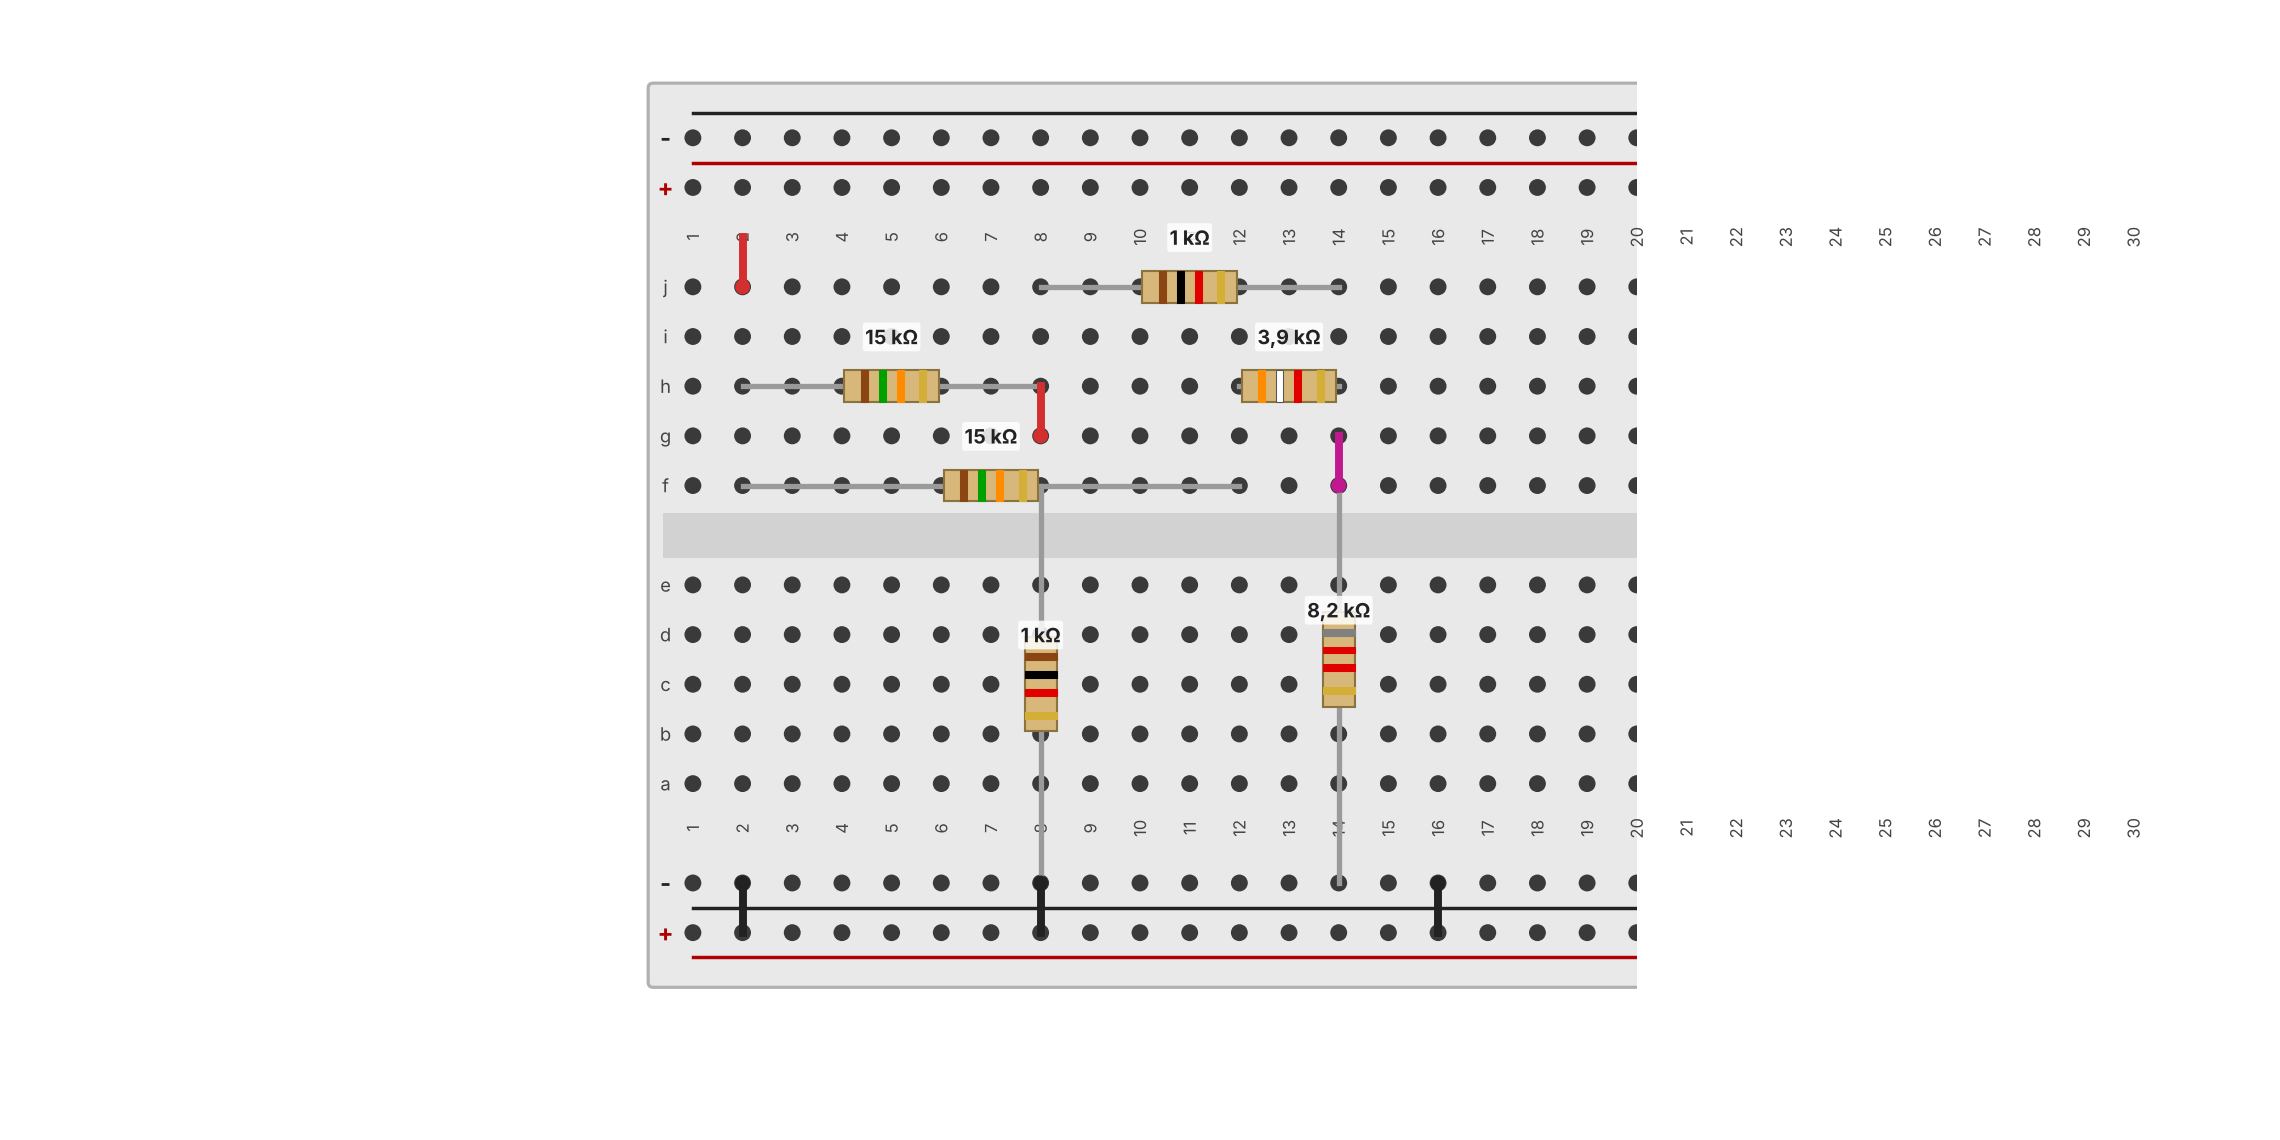
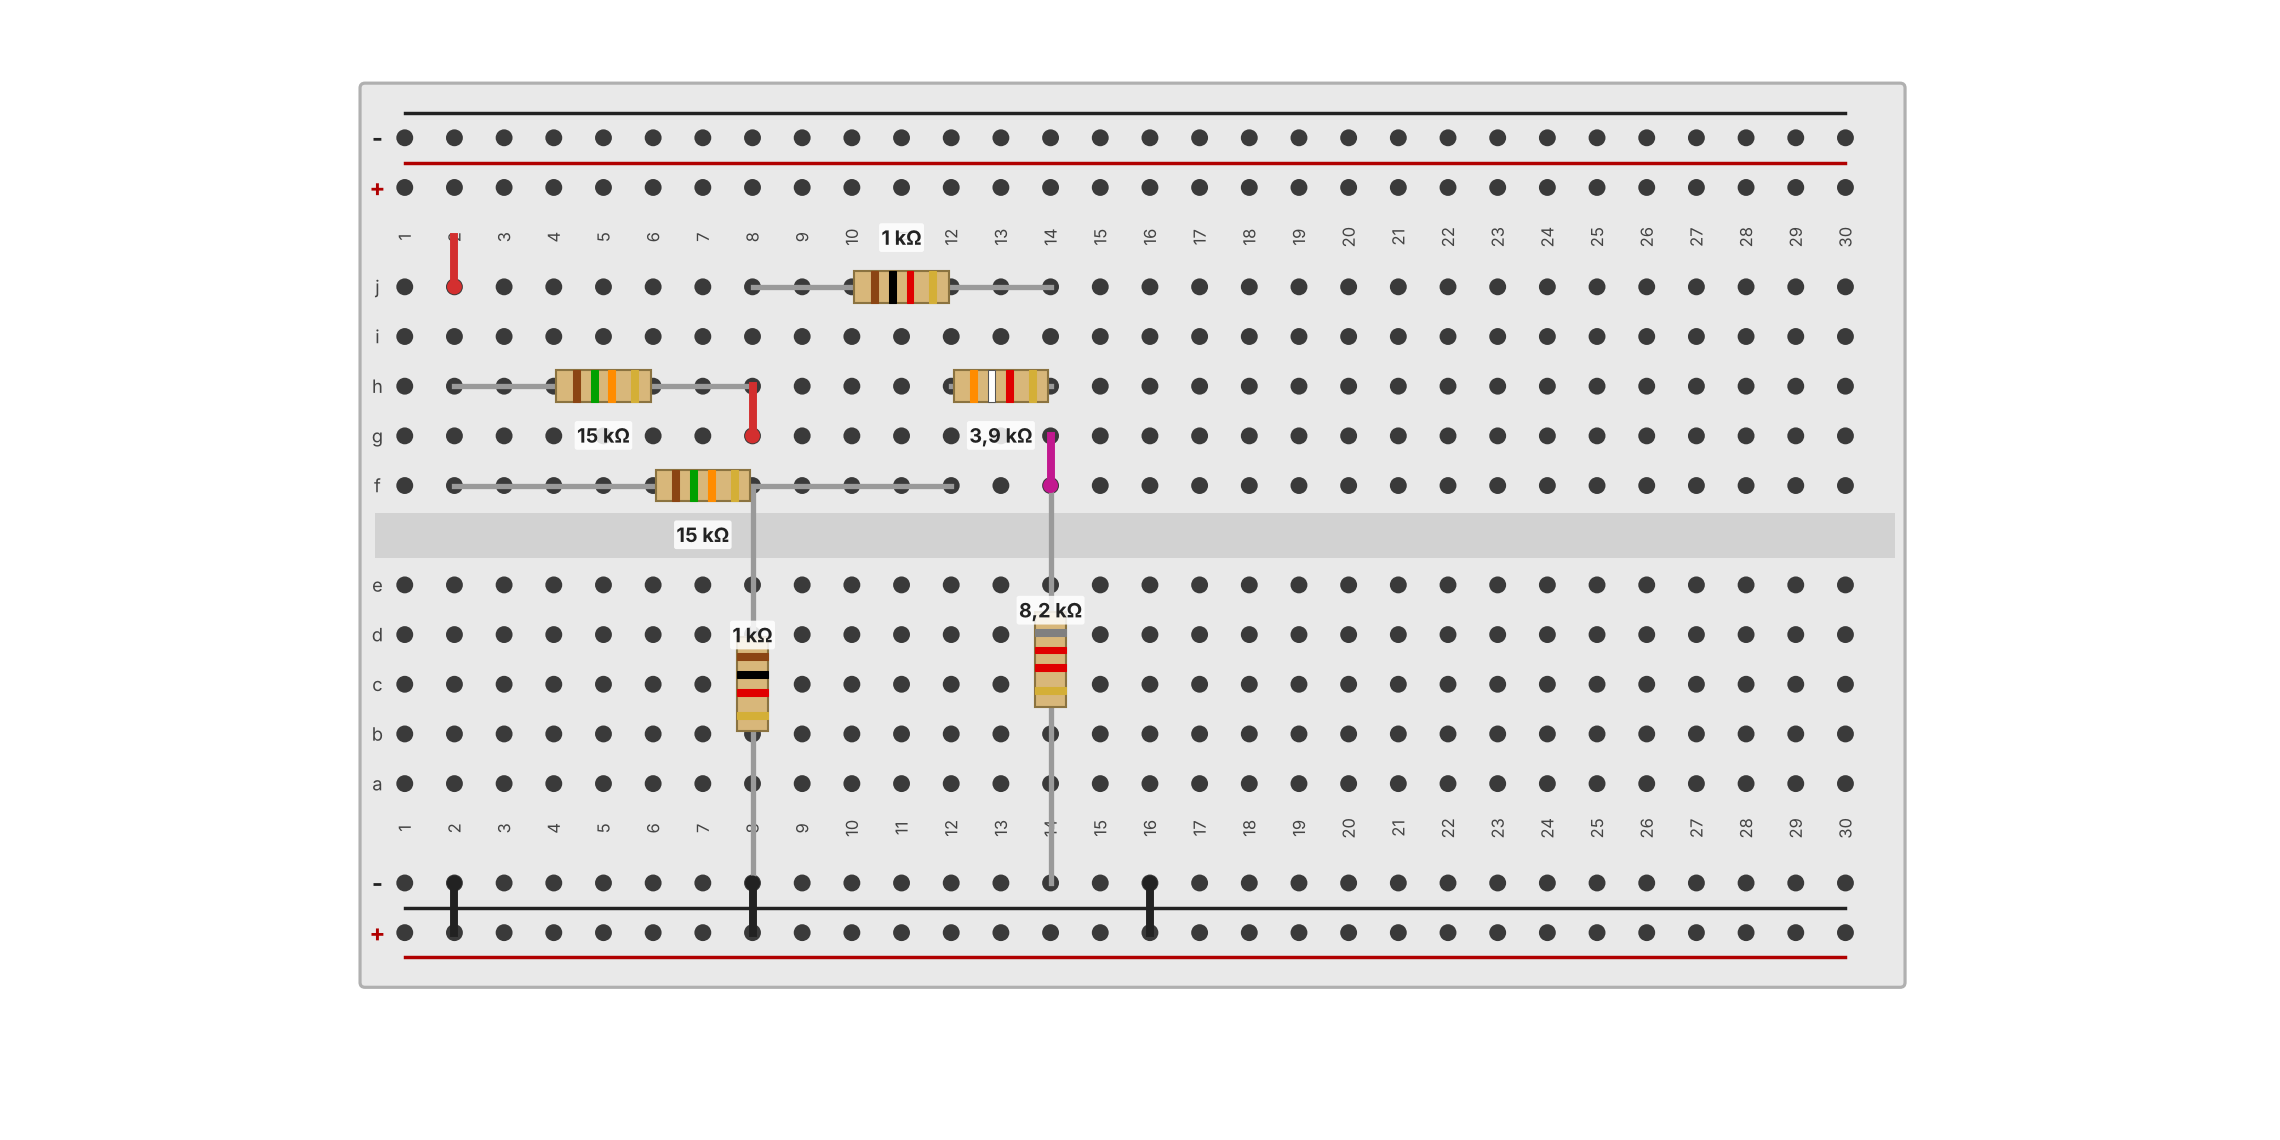
Deney 2: Şekil 3 devre tahtası tam pano ve etiket düzeni

Changed region(s): [[0.1557, 0.0614, 0.8408, 0.8904], [0.3425, 0.0921, 0.5294, 0.1228]]

diff --git a/ele201l_deney2_lab/src/bbdraw.py b/ele201l_deney2_lab/src/bbdraw.py
@@ -27,16 +27,16 @@ def s1(path, with_load=False):
 
 
 def s3(path):
-    b = Breadboard(title=None, xr=(0.0, 20.0))
+    b = Breadboard(title=None)
     b.lead("VS1+", (2, "j"), "+12 V", color="red")
     b.lead("VS1-", (2, BOT_N), "−", color="black")
-    b.resistor("R1", (2, "f"), (12, "f"), 15000, "15 kΩ")
-    b.resistor("R2", (2, "h"), (8, "h"), 15000, "15 kΩ")
+    b.resistor("R1", (2, "f"), (12, "f"), 15000, "15 kΩ", below=True)
+    b.resistor("R2", (2, "h"), (8, "h"), 15000, "15 kΩ", below=True)
     b.lead("VS2+", (8, "g"), "+5 V", color="red")
     b.lead("VS2-", (8, BOT_N), "−", color="black")
     b.resistor("R5", (8, "f"), (8, BOT_N), 1000, "1 kΩ")
     b.resistor("R4", (8, "j"), (14, "j"), 1000, "1 kΩ")
-    b.resistor("R3", (12, "h"), (14, "h"), 3900, "3,9 kΩ")
+    b.resistor("R3", (12, "h"), (14, "h"), 3900, "3,9 kΩ", below=True)
     b.resistor("R6", (14, "g"), (14, BOT_N), 8200, "8,2 kΩ")
     b.lead("C", (14, "f"), "C", color="magenta")
     b.lead("D", (16, BOT_N), "D", color="black")
